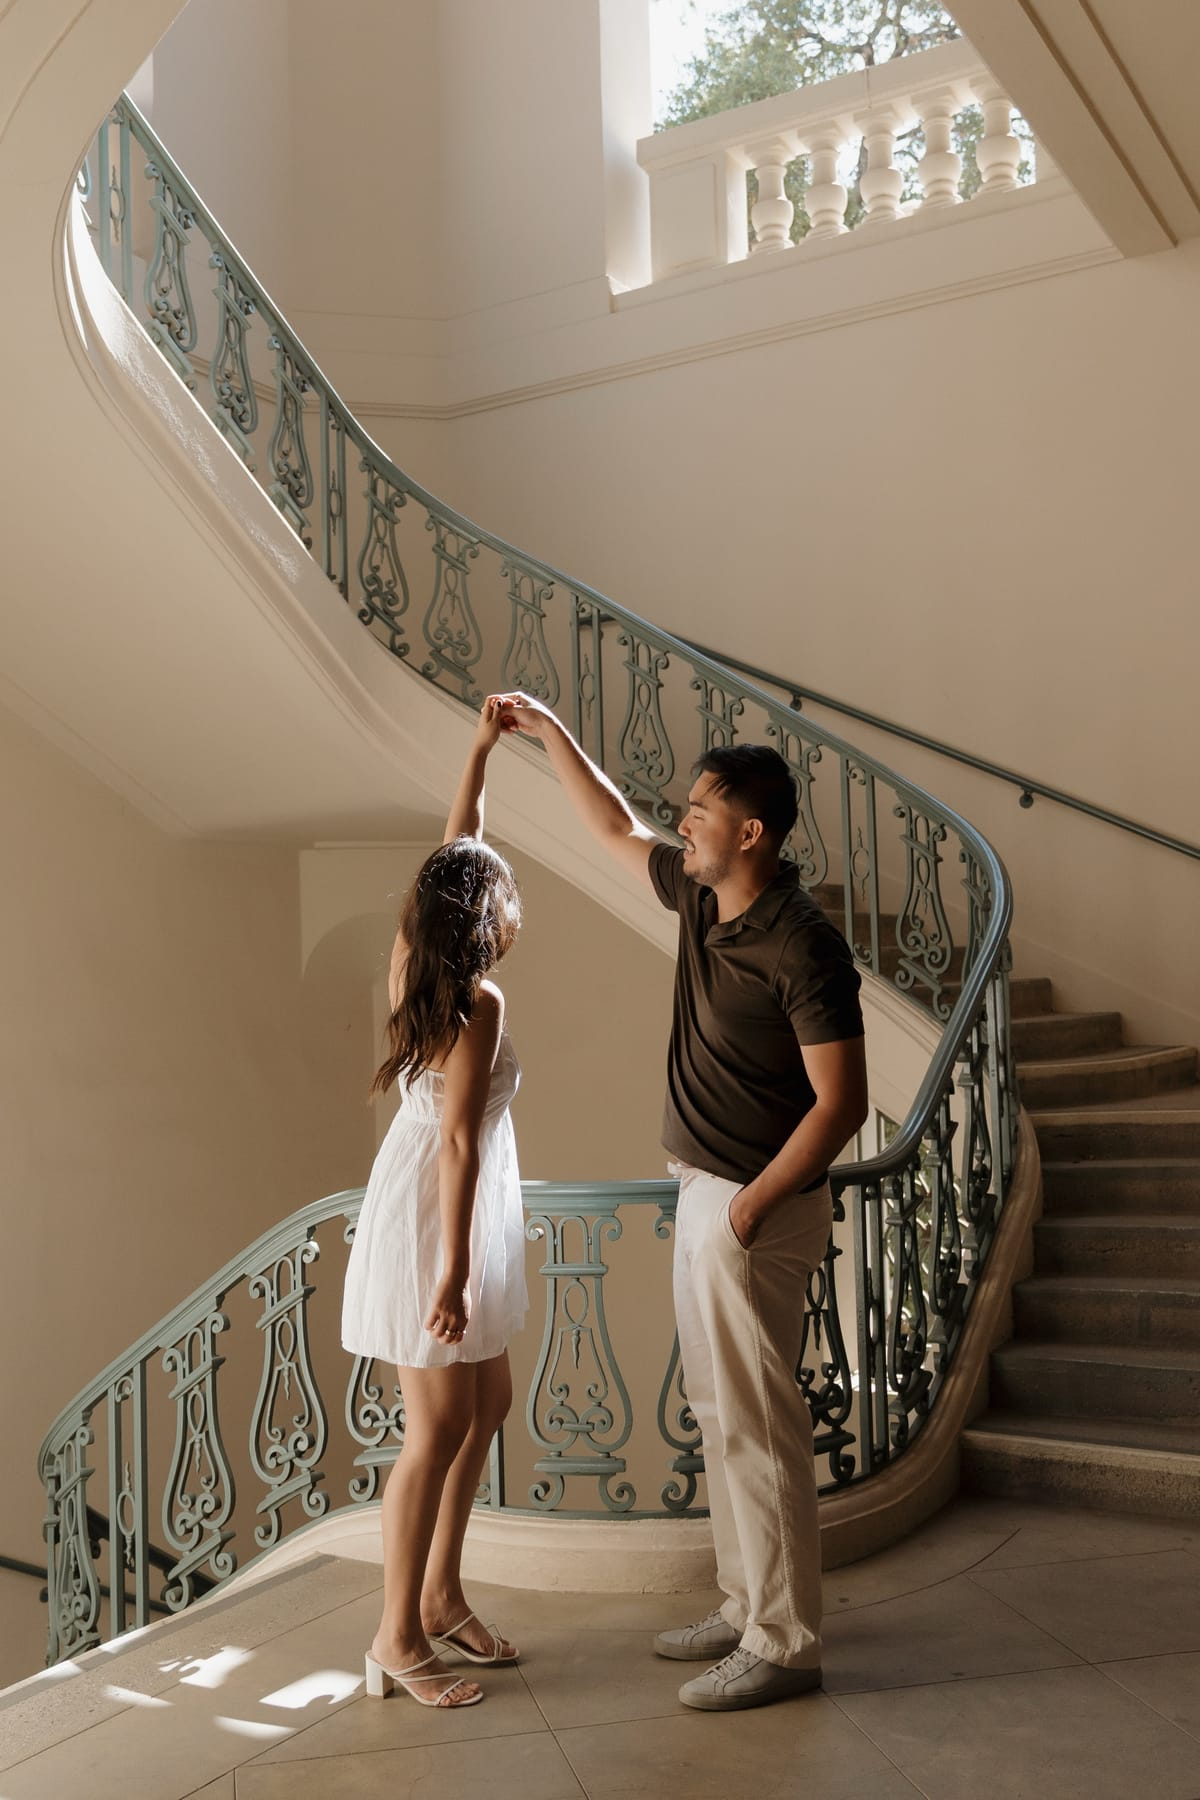
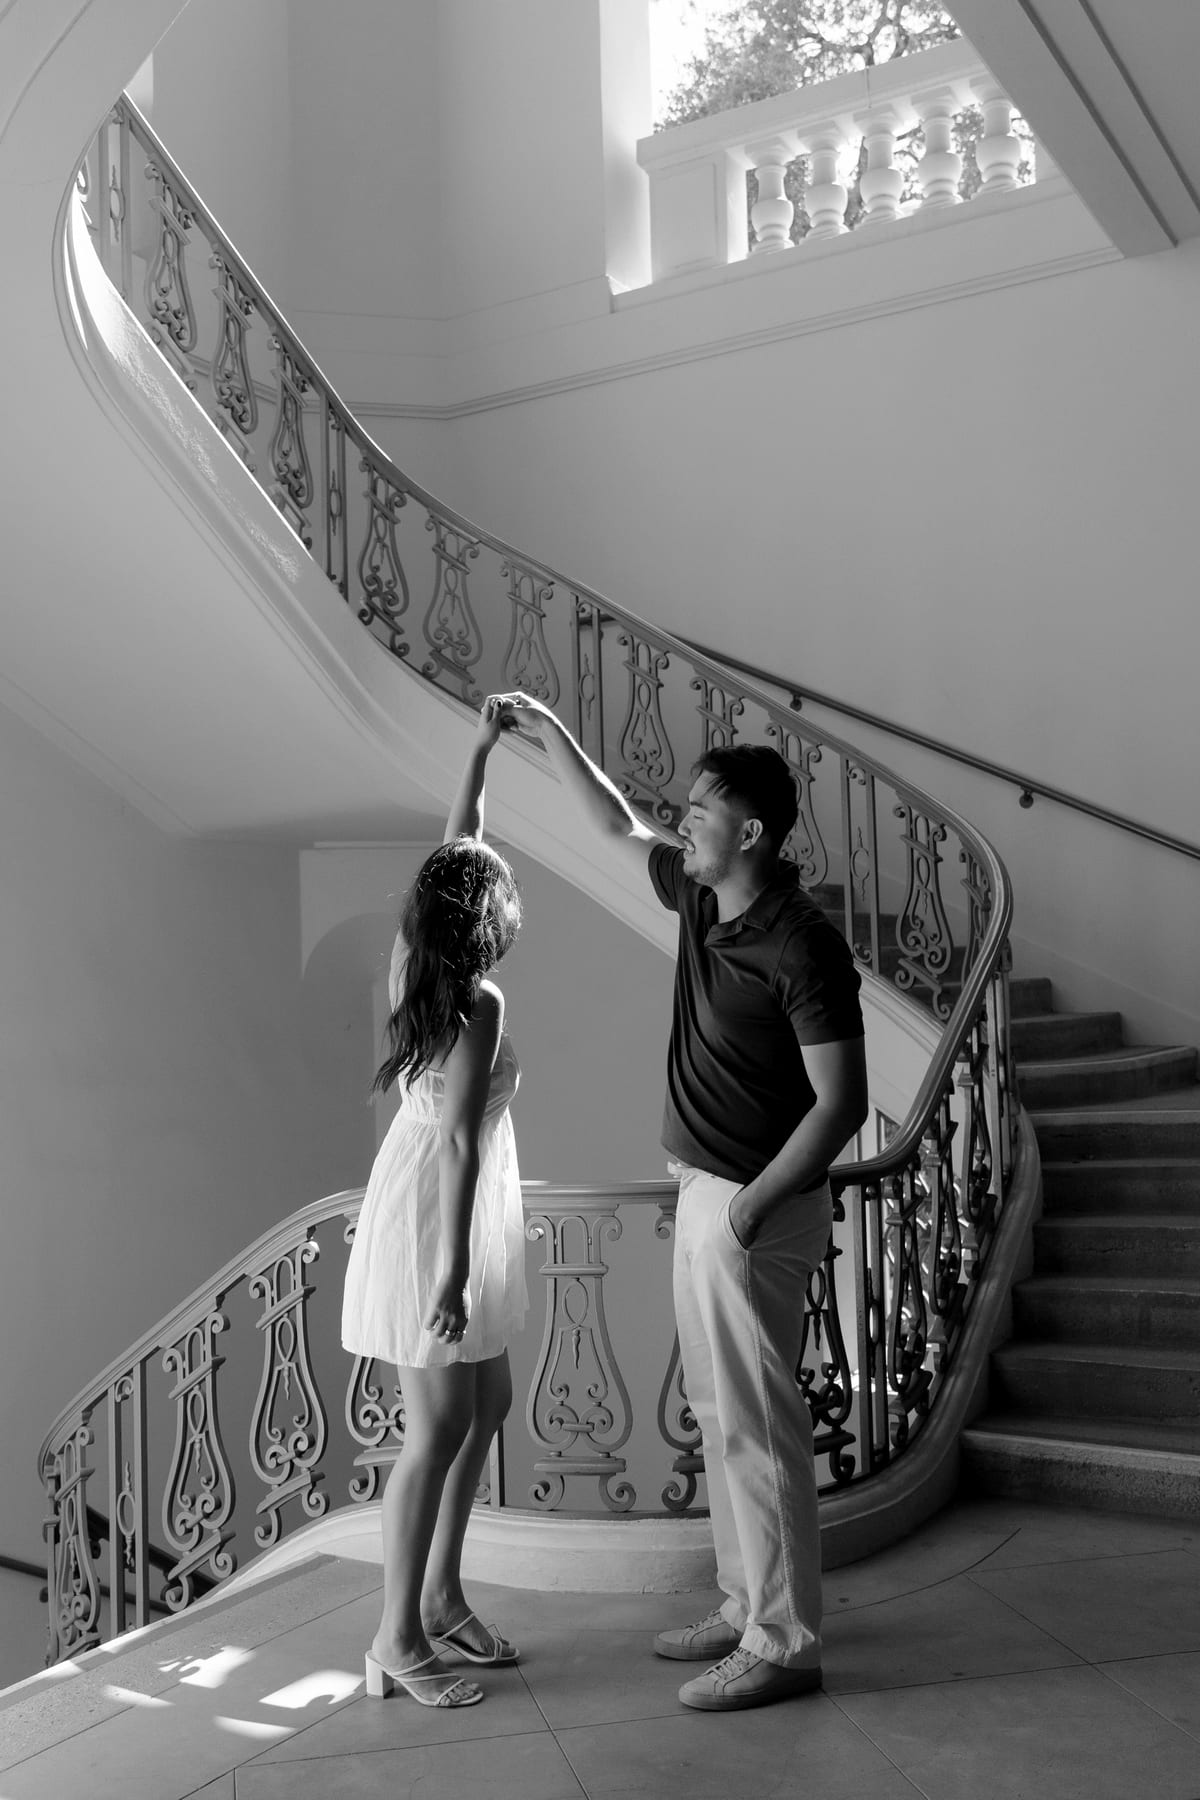
Match the comps' imagery: black-and-white backdrops, measured gallery grid
The backdrops are black and white, converted from the originals. The comps'
photographic bands measure 16-36% saturation at 58-88/255 luminance; mono
under the existing warm scrim lands at 13-16% and 59-68, in the same
register. The gallery stays in colour, as the comps have it.

The gallery grid was measured off the Canva export rather than eyeballed,
and three things were wrong. Frames were 2:3 where the comp is 215x279
(0.771). They butted edge to edge, which came from the earlier prototype's
design system — this comp puts 93px between them, 43.3% of a frame. And the
row ran the full content width where the comp spans 829 of 1087px.

Frames are wider than the photographs now, so each sets its own crop
position: the comp crops the top of every frame and never the bottom, so
feet and the dog stay in shot.

Rendered at the comp's own page width, frames land at 128-343, 436-651 and
744-960 against the comp's 121-335, 429-643, 736-950 — widths and gaps
within a pixel.

Claude-Session: https://claude.ai/code/session_013SRUTrtckYeDEpCdCuP7HH

diff --git a/components/ui/Filmstrip.tsx b/components/ui/Filmstrip.tsx
@@ -22,14 +22,18 @@ export function Filmstrip({
   label,
   columns = 3,
   hint = "Swipe for more",
-  seamless = true,
+  gapClass = "gap-0",
 }: {
   children: React.ReactNode;
   label: string;
   columns?: 2 | 3;
   hint?: string;
-  /** Photographs butt edge to edge; framed cards need room to read as cards. */
-  seamless?: boolean;
+  /**
+   * Grid gap. Given as a percentage of the container so it holds the comp's
+   * proportion at any width, since the comps fix the gap relative to the
+   * frame rather than in pixels.
+   */
+  gapClass?: string;
 }) {
   const stripRef = useRef<HTMLUListElement>(null);
   const [thumb, setThumb] = useState<{ width: number; offset: number } | null>(
@@ -119,14 +123,13 @@ export function Filmstrip({
   }, [update]);
 
   const gridAtMd = columns === 2 ? "md:grid-cols-2" : "md:grid-cols-3";
-  const gap = seamless ? "gap-0" : "gap-4 md:gap-10";
 
   return (
     <div>
       <ul
         ref={stripRef}
         aria-label={label}
-        className={`-mx-5 grid ${gap} snap-x snap-mandatory auto-cols-[78%] grid-flow-col overflow-x-auto overscroll-x-contain px-5 [scrollbar-width:none] [&::-webkit-scrollbar]:hidden md:mx-auto md:grid-flow-row ${gridAtMd} md:auto-cols-auto md:overflow-x-visible md:px-0`}
+        className={`-mx-5 grid ${gapClass} snap-x snap-mandatory auto-cols-[78%] grid-flow-col overflow-x-auto overscroll-x-contain px-5 [scrollbar-width:none] [&::-webkit-scrollbar]:hidden md:mx-auto md:grid-flow-row ${gridAtMd} md:auto-cols-auto md:overflow-x-visible md:px-0`}
       >
         {children}
       </ul>

diff --git a/components/sections/Gallery.tsx b/components/sections/Gallery.tsx
@@ -6,12 +6,17 @@ import { gallery } from "@/data/wedding";
 export function Gallery() {
   return (
     <section className="bg-cream-light px-5 py-16 text-ink sm:py-24" aria-label="Photographs">
-      <div className="mx-auto max-w-content">
-        <Filmstrip label="Photographs of Dan and Tien" columns={3}>
+      {/* 52rem ≈ the comp's 829px row at its 1087px page width. */}
+      <div className="mx-auto max-w-[52rem]">
+        <Filmstrip
+          label="Photographs of Dan and Tien"
+          columns={3}
+          gapClass="gap-4 md:gap-[11.2%]"
+        >
           {gallery.map((photo) => (
             <li key={photo.src} className="snap-center">
               <div
-                className="relative aspect-[2/3] w-full overflow-hidden bg-cream"
+                className="relative aspect-[215/279] w-full overflow-hidden bg-cream"
                 data-reveal="photo"
               >
                 <Image
@@ -21,6 +26,9 @@ export function Gallery() {
                   sizes="(min-width: 768px) 30vw, 78vw"
                   quality={85}
                   className="object-cover"
+                  /* The comp crops the top of each frame, never the bottom:
+                     feet and the dog stay in every one. */
+                  style={{ objectPosition: photo.position }}
                 />
               </div>
             </li>

diff --git a/data/wedding.ts b/data/wedding.ts
@@ -115,14 +115,19 @@ export const gallery = [
   {
     src: "/images/gallery-1.jpg",
     alt: "Dan and Tien holding their French bulldog between them, Pasadena City Hall behind",
+    /** Frames are wider than the photographs, so `position` chooses what the
+     *  crop keeps. The comp keeps the bottom of every frame. */
+    position: "center 60%",
   },
   {
     src: "/images/gallery-2.jpg",
     alt: "Dan twirling Tien under his arm on a curved staircase",
+    position: "center 65%",
   },
   {
     src: "/images/gallery-3.jpg",
     alt: "Dan and Tien leaning against a fountain, their dog lying at their feet",
+    position: "center 70%",
   },
 ] as const;
 

diff --git a/components/sections/LocalRecs.tsx b/components/sections/LocalRecs.tsx
@@ -26,7 +26,7 @@ export function LocalRecs() {
         <Filmstrip
           label="Local recommendations"
           columns={2}
-          seamless={false}
+          gapClass="gap-4 md:gap-[8.4%]"
           hint="Swipe for more"
         >
           {recommendations.map((place) => (

diff --git a/public/images/README.md b/public/images/README.md
@@ -8,10 +8,10 @@ extension in `data/wedding.ts` if it changes.
 
 | File | Where it appears | Suggested size |
 |---|---|---|
-| `bg-hero.jpg` | Full-bleed behind the couple's names | portrait, full frame |
-| `bg-venues.jpg` | Behind Ceremony / Reception | portrait, full frame |
-| `bg-rsvp.jpg` | Behind the RSVP form | portrait, full frame |
-| `gallery-1..3.jpg` | Swipeable gallery under The Day | 2:3 portrait — real photographs |
+| `bg-hero.jpg` | Full-bleed behind the couple's names | portrait, full frame, **black and white** |
+| `bg-venues.jpg` | Behind Ceremony / Reception | portrait, full frame, **black and white** |
+| `bg-rsvp.jpg` | Behind the RSVP form | portrait, full frame, **black and white** |
+| `gallery-1..3.jpg` | Swipeable gallery under The Day | 2:3 portrait, in colour as the comp has them |
 | `rec-*.svg` | Local recommendation cards | 960 × 1140, portrait |
 
 The `bg-*` files are kept as full frames rather than cropped to landscape: a
@@ -25,3 +25,21 @@ That number is not arbitrary: these frames are high-key, all white
 architecture and sky, and at 65% the small copy over them measured 4.32:1
 against cream, under the 4.5:1 needed. At 70% every heading and paragraph on
 a photographic section clears AA, measured at both phone and desktop widths.
+
+## Matching the comps
+
+Measured off the Canva exports rather than eyeballed, so these are worth
+keeping if the layout is ever reworked:
+
+| Thing | Comp | Where it lives |
+|---|---|---|
+| Gallery frame | 215 × 279px (ratio 0.771) | `aspect-[215/279]` in `Gallery.tsx` |
+| Gap between frames | 93px — 43.3% of a frame | `gap-[11.2%]` (11.2% of the row) |
+| Gallery row width | 829 of 1087px — 76% of the page | `max-w-[52rem]` |
+| Recommendation card gap | 51px on a 276px card — 18.4% | `gap-[8.4%]` |
+| Backdrop tone | 16–36% saturation, 58–88/255 luminance | greyscale files + a 70% warm scrim |
+
+The gallery frames are wider than the photographs, so each one sets its own
+`position` in `data/wedding.ts`. The comp crops the top of every frame and
+never the bottom — feet and the dog stay in shot — which is why those values
+sit below 50%.
